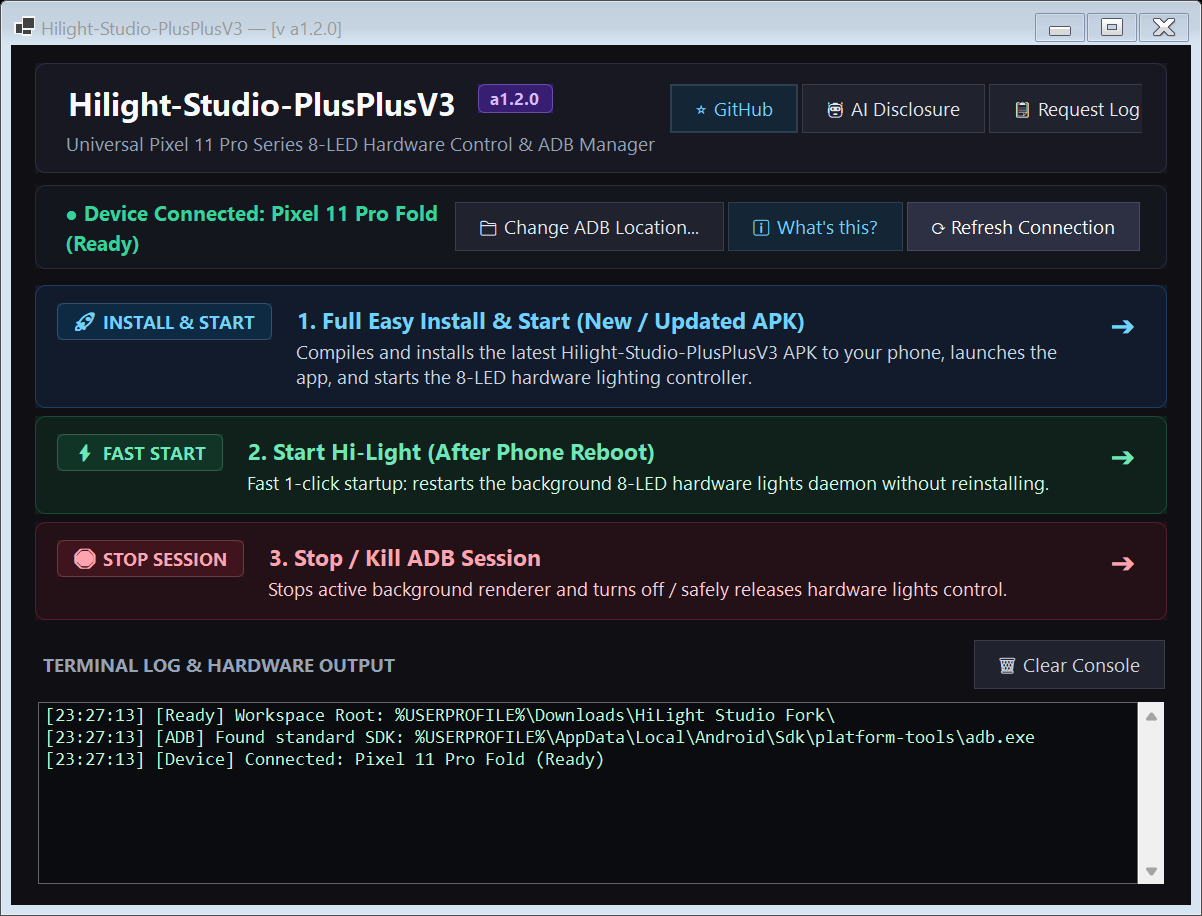
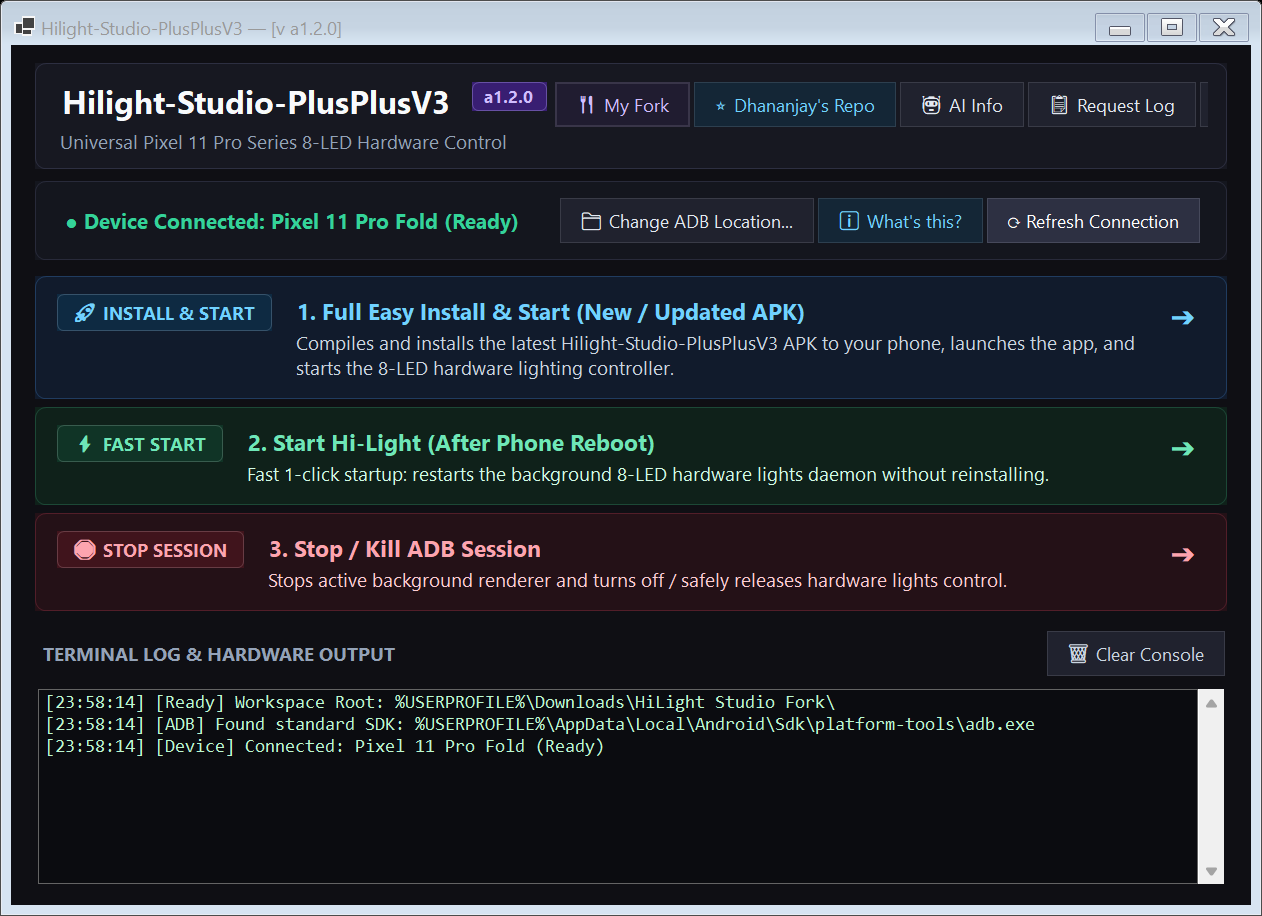
feat(v3): add GitHub fork button and Dhananjay repo button to desktop manager

diff --git a/tools/HiLightManager/MainForm.cs b/tools/HiLightManager/MainForm.cs
@@ -40,7 +40,7 @@ namespace HiLightManager
 
             if (captureScreenshot)
             {
-                this.ClientSize = new Size(1180, 860);
+                this.ClientSize = new Size(1240, 860);
                 this.Shown += async (s, e) =>
                 {
                     await Task.Delay(1500);
@@ -68,8 +68,8 @@ namespace HiLightManager
         {
             this.Text = "Hilight-Studio-PlusPlusV3 — [v a1.2.0]";
             this.AutoScaleMode = AutoScaleMode.Dpi;
-            this.ClientSize = new Size(1180, 860);
-            this.MinimumSize = new Size(1000, 750);
+            this.ClientSize = new Size(1240, 860);
+            this.MinimumSize = new Size(1050, 750);
             this.StartPosition = FormStartPosition.CenterScreen;
             this.BackColor = Color.FromArgb(15, 15, 20); // Material 3 Surface Dark
             this.ForeColor = Color.FromArgb(241, 245, 249);
@@ -104,7 +104,7 @@ namespace HiLightManager
                 ColumnCount = 2,
                 RowCount = 1,
                 BackColor = Color.FromArgb(23, 24, 33),
-                Padding = new Padding(22, 14, 22, 14),
+                Padding = new Padding(16, 12, 16, 12),
                 Margin = new Padding(0, 0, 0, 12)
             };
             pnlHeader.ColumnStyles.Add(new ColumnStyle(SizeType.AutoSize));
@@ -176,7 +176,7 @@ namespace HiLightManager
 
             lblHeaderSubtitle = new Label
             {
-                Text = "Universal Pixel 11 Pro Series 8-LED Hardware Control & ADB Manager",
+                Text = "Universal Pixel 11 Pro Series 8-LED Hardware Control",
                 Font = new Font("Segoe UI", 9.5f, FontStyle.Regular),
                 ForeColor = Color.FromArgb(148, 163, 184),
                 AutoSize = true,
@@ -199,7 +199,17 @@ namespace HiLightManager
                 BackColor = Color.Transparent
             };
 
-            Button btnUpstream = CreateStyledButton("⭐ GitHub", Color.FromArgb(20, 38, 54), Color.FromArgb(112, 210, 255));
+            Button btnFork = CreateStyledButton("🍴 My Fork", Color.FromArgb(32, 28, 48), Color.FromArgb(208, 188, 255));
+            btnFork.Click += (s, e) =>
+            {
+                Process.Start(new ProcessStartInfo
+                {
+                    FileName = "https://github.com/Amagora/hilight-studio-plusplus",
+                    UseShellExecute = true
+                });
+            };
+
+            Button btnUpstream = CreateStyledButton("⭐ Dhananjay's Repo", Color.FromArgb(20, 38, 54), Color.FromArgb(112, 210, 255));
             btnUpstream.Click += (s, e) =>
             {
                 Process.Start(new ProcessStartInfo
@@ -209,15 +219,16 @@ namespace HiLightManager
                 });
             };
 
-            Button btnAiDisclosure = CreateStyledButton("🤖 AI Disclosure", Color.FromArgb(32, 34, 46), Color.FromArgb(226, 232, 240));
+            Button btnAiDisclosure = CreateStyledButton("🤖 AI Info", Color.FromArgb(32, 34, 46), Color.FromArgb(226, 232, 240));
             btnAiDisclosure.Click += (s, e) => ShowAiDisclosureDialog();
 
             Button btnChangeLog = CreateStyledButton("📋 Request Log", Color.FromArgb(32, 34, 46), Color.FromArgb(226, 232, 240));
             btnChangeLog.Click += (s, e) => ShowUserRequestLogDialog();
 
-            Button btnLicense = CreateStyledButton("📜 MIT License", Color.FromArgb(32, 34, 46), Color.FromArgb(226, 232, 240));
+            Button btnLicense = CreateStyledButton("📜 License", Color.FromArgb(32, 34, 46), Color.FromArgb(226, 232, 240));
             btnLicense.Click += (s, e) => ShowLicenseDialog();
 
+            pnlHeaderButtons.Controls.Add(btnFork);
             pnlHeaderButtons.Controls.Add(btnUpstream);
             pnlHeaderButtons.Controls.Add(btnAiDisclosure);
             pnlHeaderButtons.Controls.Add(btnChangeLog);
@@ -594,12 +605,12 @@ namespace HiLightManager
                 BackColor = bg,
                 ForeColor = fg,
                 Cursor = Cursors.Hand,
-                Font = new Font("Segoe UI", 9.5f, FontStyle.Regular),
+                Font = new Font("Segoe UI", 9f, FontStyle.Regular),
                 TextAlign = ContentAlignment.MiddleCenter,
                 UseMnemonic = false,
                 AutoSize = true,
                 AutoSizeMode = AutoSizeMode.GrowAndShrink,
-                Padding = new Padding(12, 6, 12, 6),
+                Padding = new Padding(8, 4, 8, 4),
                 Margin = new Padding(2, 2, 2, 2)
             };
             b.FlatAppearance.BorderSize = 1;
